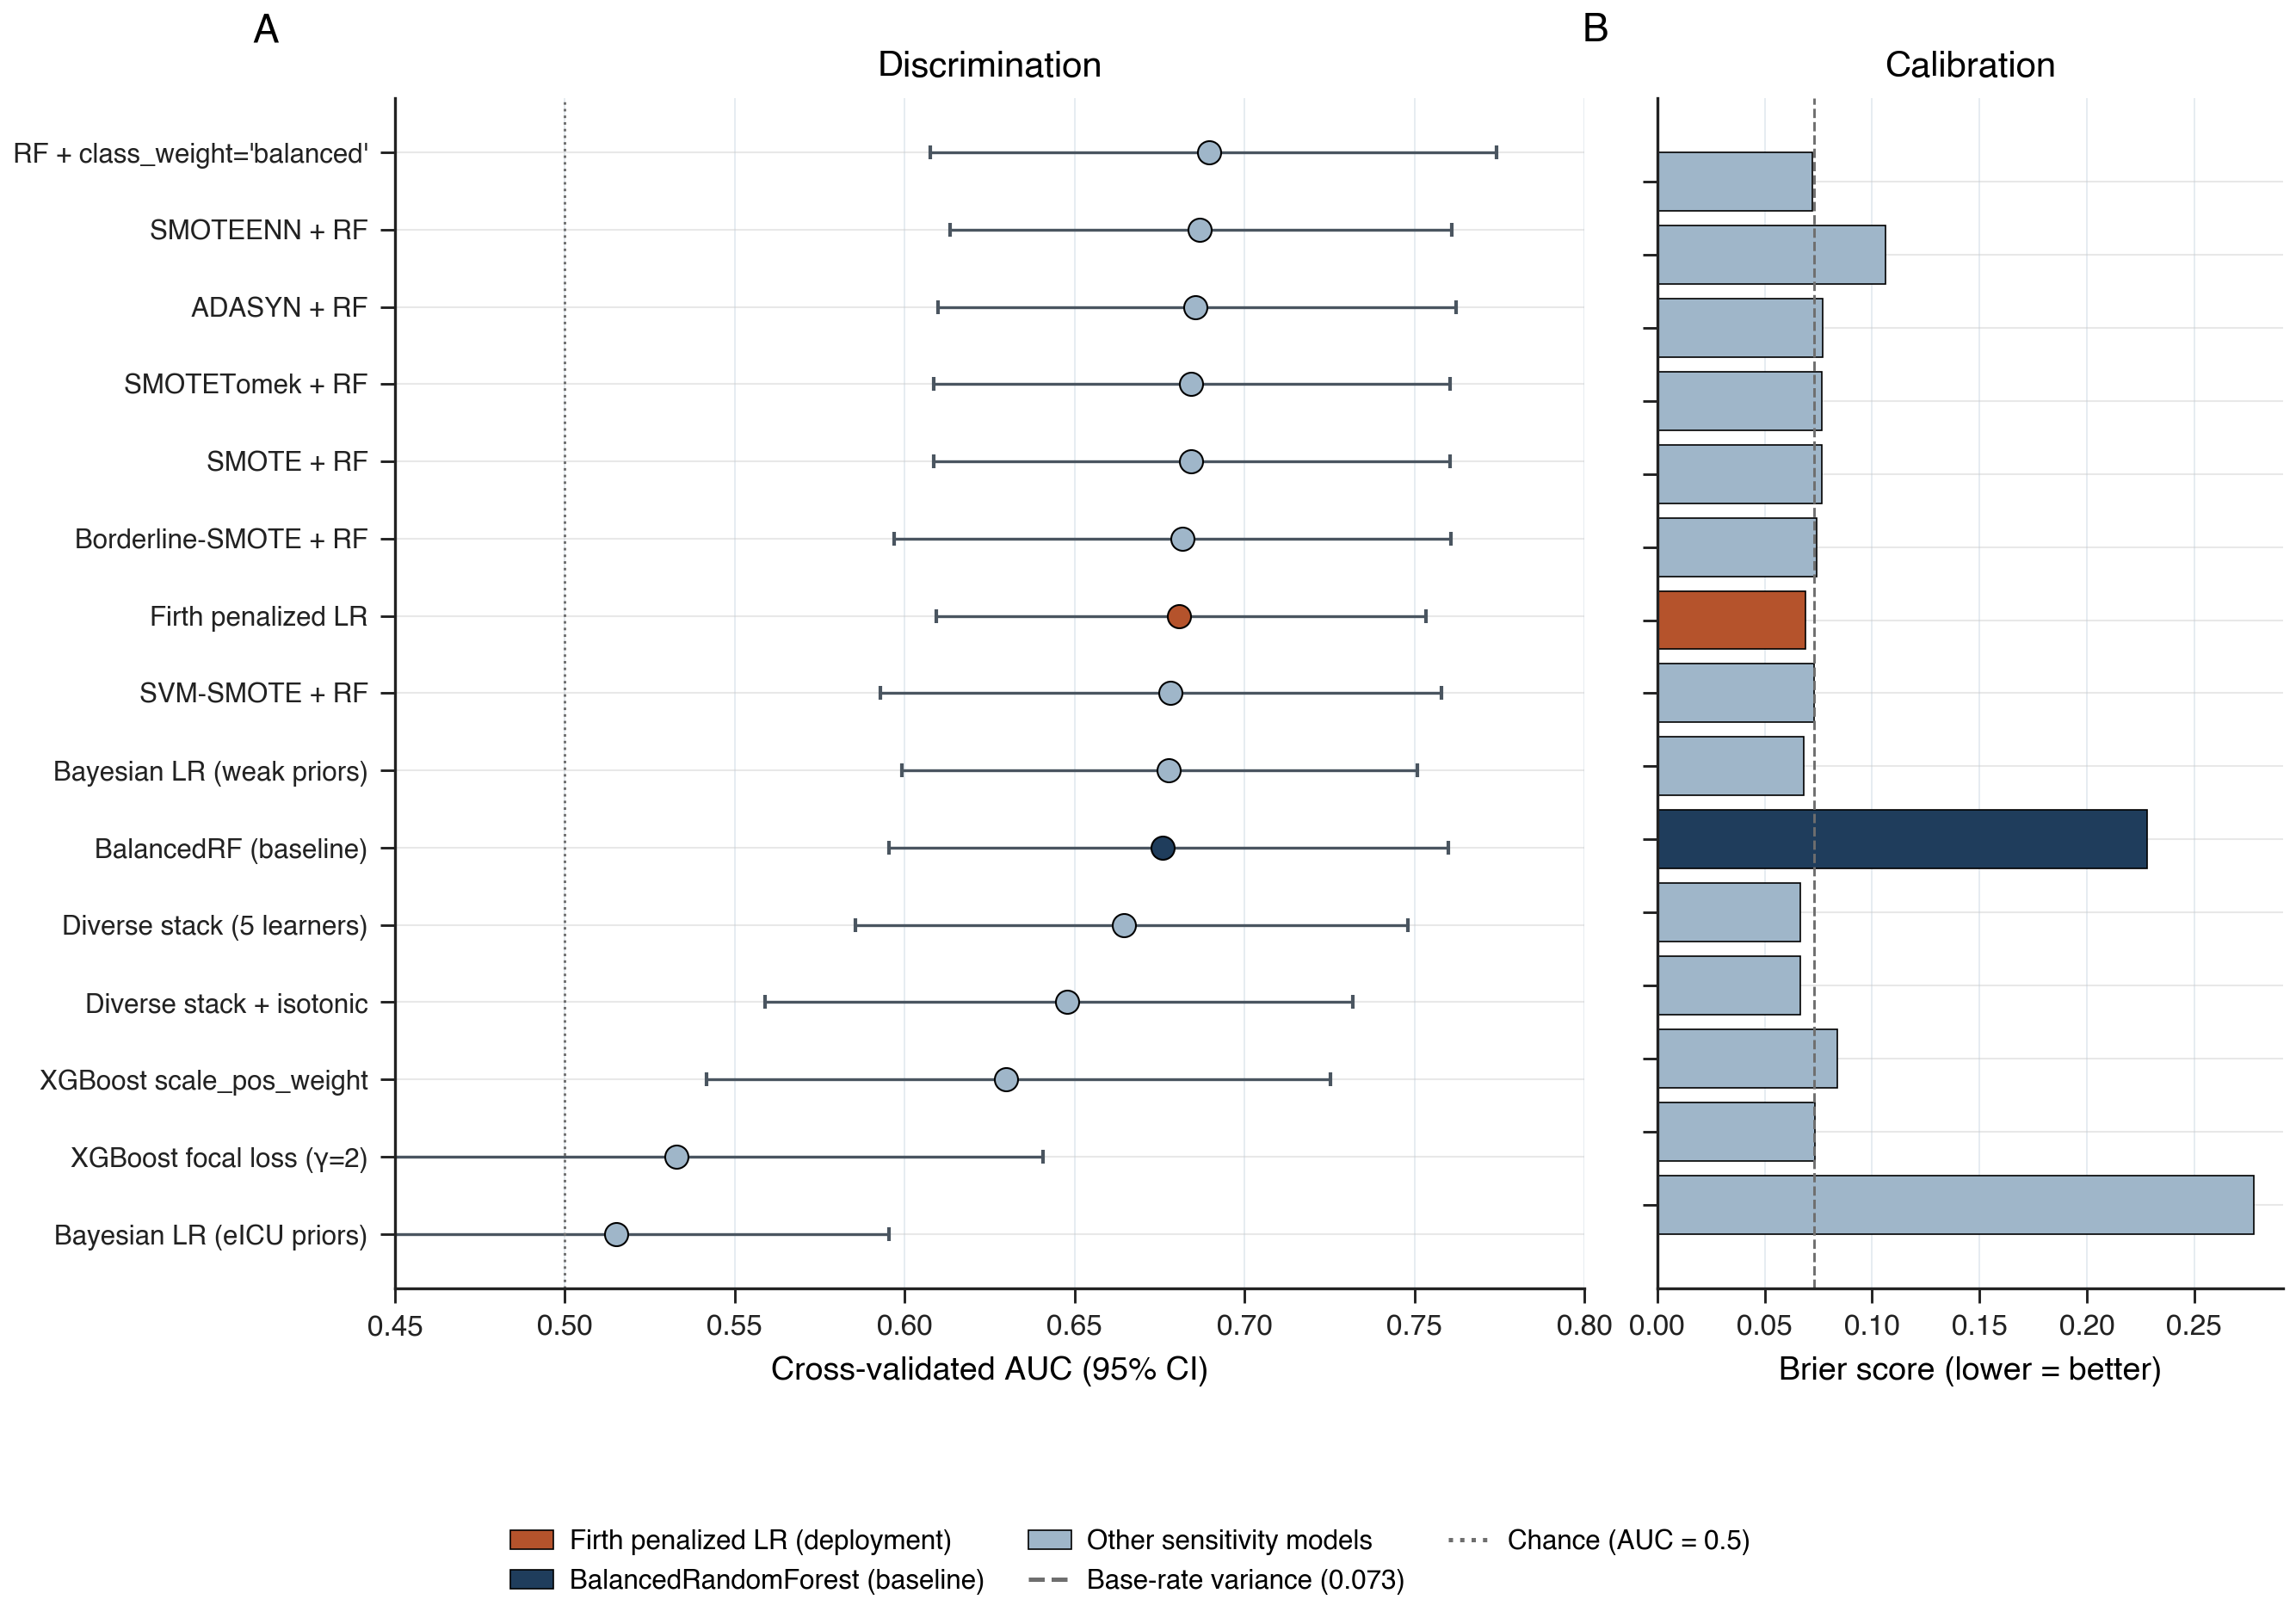
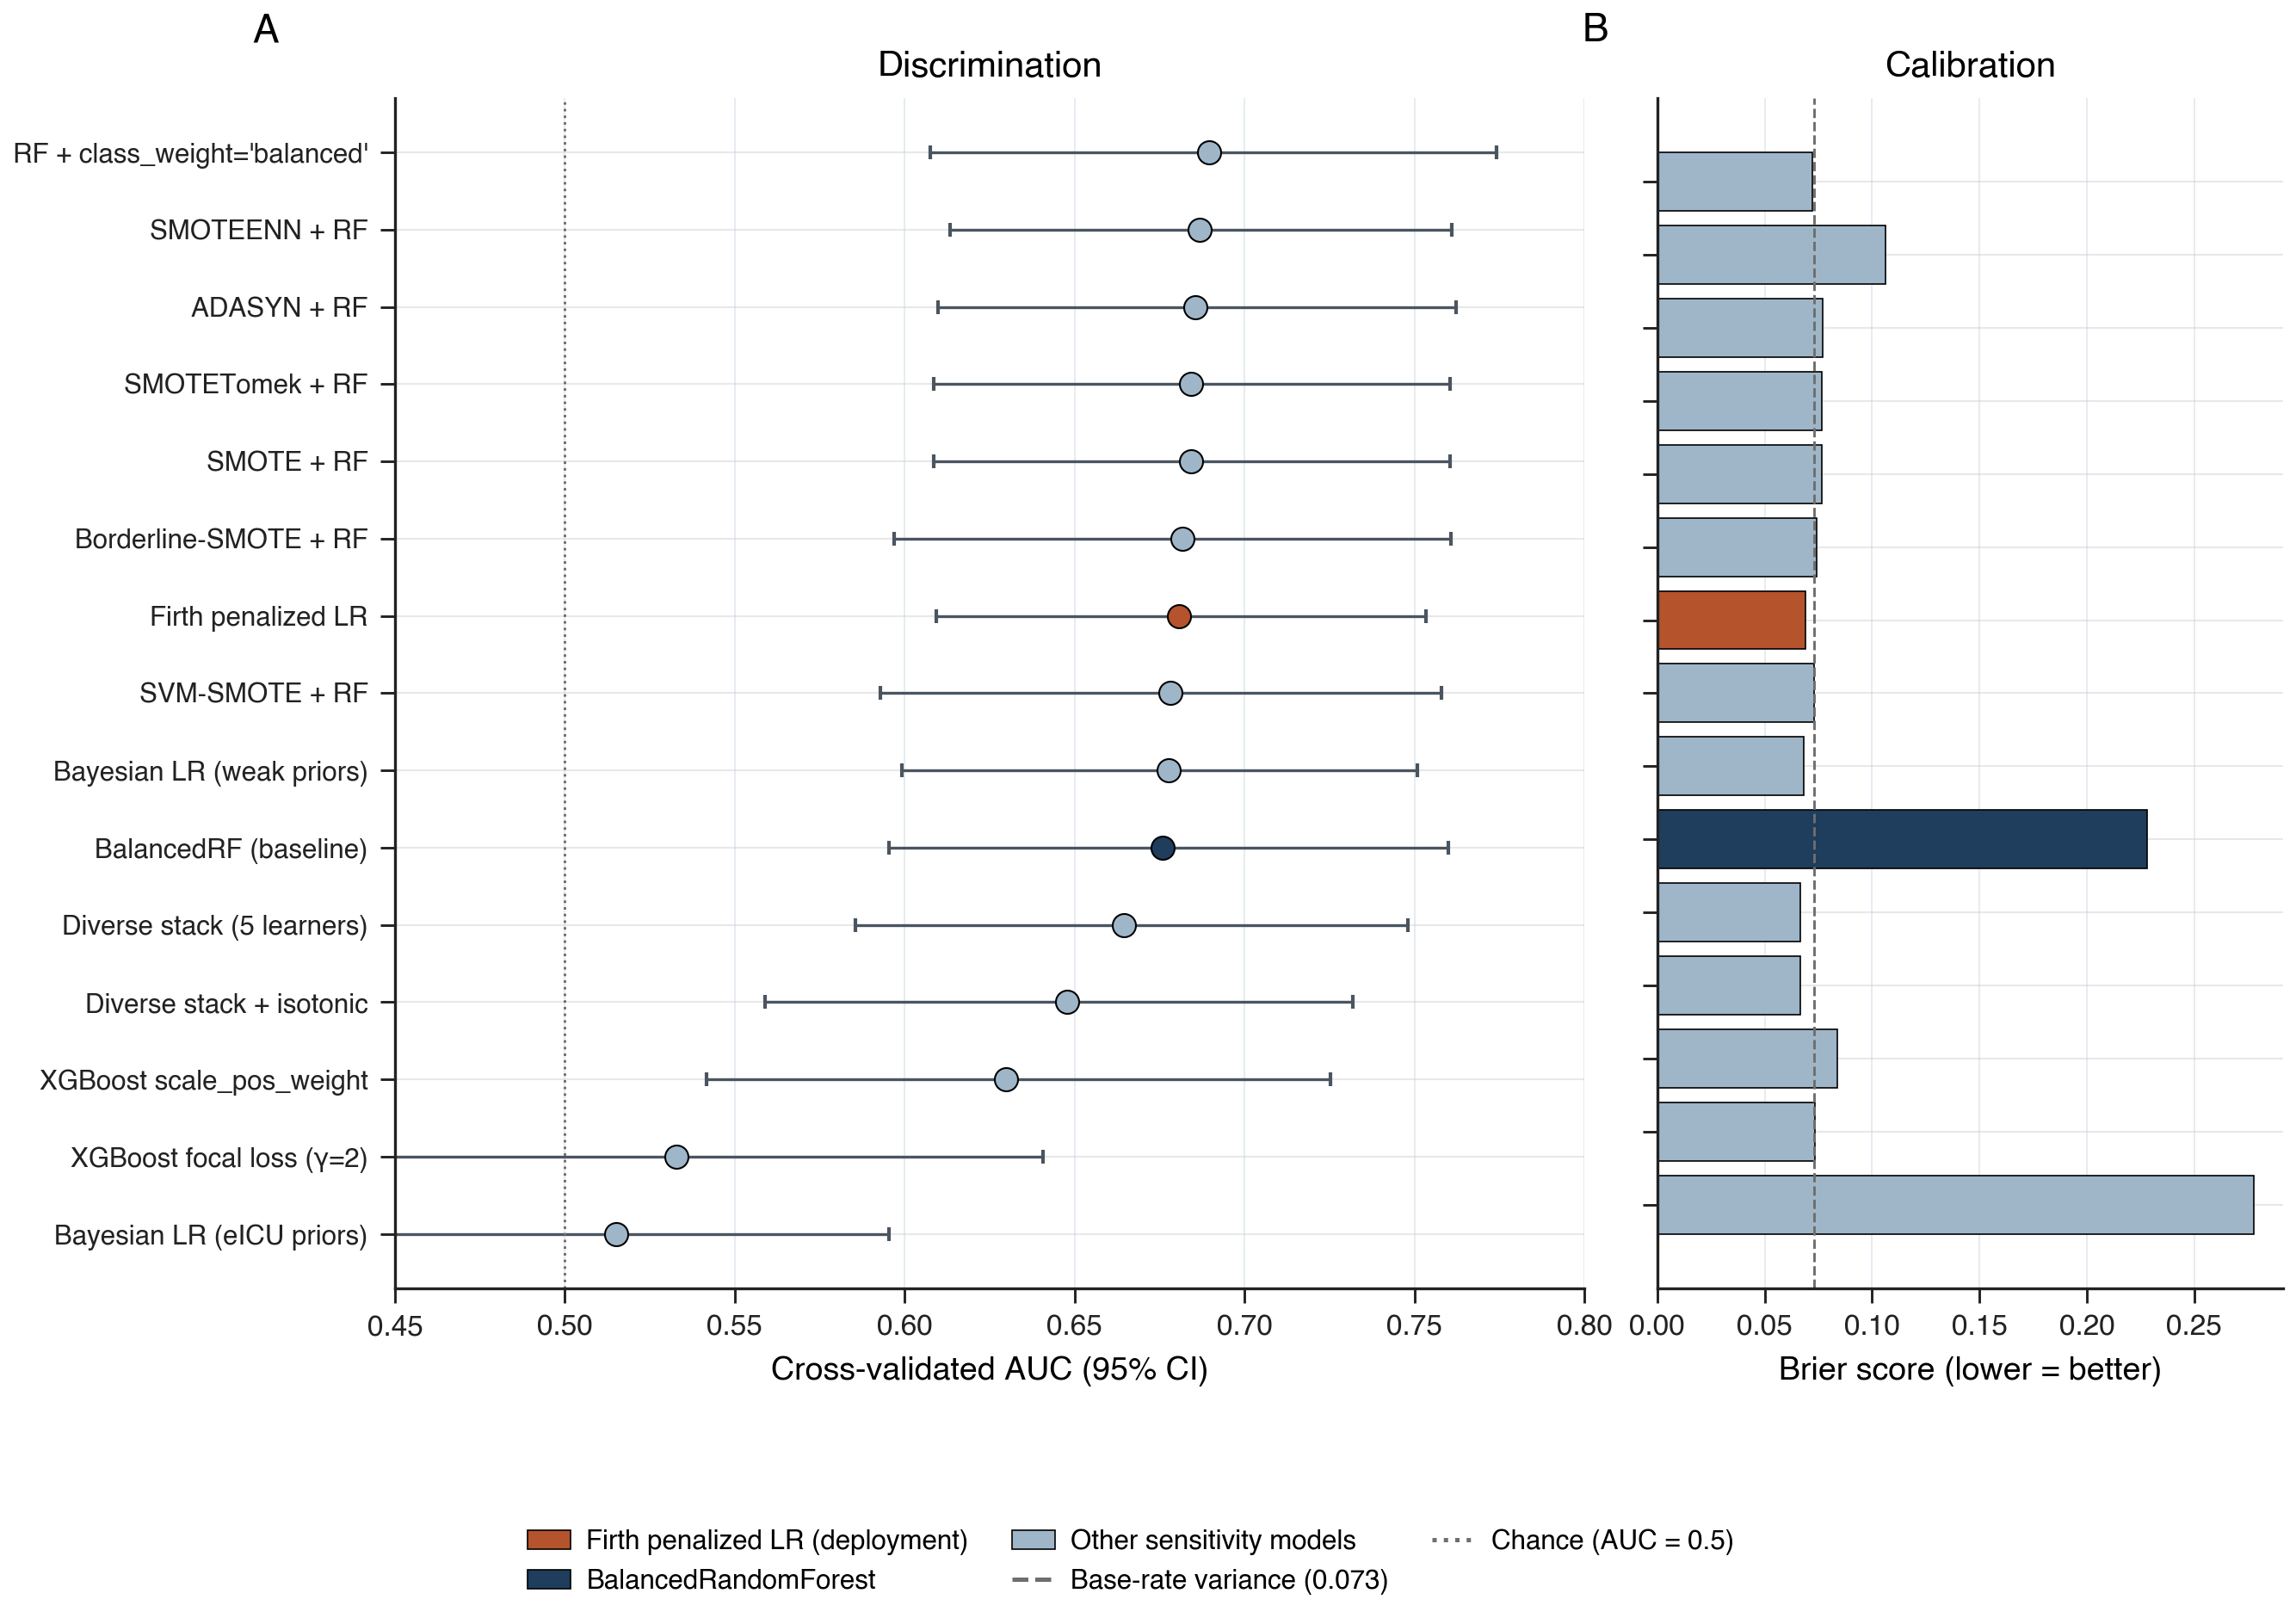
Sync script 27 + 29 sources and Figure 1 / Figure 3 PNG+PDF to github_repo
The previous commit (ac96ae1) updated docs/main_manuscript.docx and
docs/supplementary.docx but did not sync the matching source files
(scripts/27_build_jnnp_manuscript.py, scripts/29_main_figures_jnnp.py)
or the regenerated F1_discrimination + F3_method_battery PNG/PDF
figures. This commit closes that gap so the public repo is internally
consistent: running scripts/29 then scripts/27 from a fresh clone will
now reproduce the exact main_manuscript.docx + supplementary.docx
shipped in this release.

Changed region(s): [[0.2178, 0.9255, 0.4355, 0.9872], [0.4355, 0.9255, 0.6222, 0.9872], [0.6533, 0.9255, 0.7466, 0.9564]]

diff --git a/scripts/27_build_jnnp_manuscript.py b/scripts/27_build_jnnp_manuscript.py
@@ -185,10 +185,9 @@ def build_main():
                    "interactive code callgraph; all computation runs "
                    "client-side in the browser so that no patient "
                    "information is transmitted. Raw patient-level data are "
-                   "restricted by the BIDMC Institutional Review Board, the "
-                   "eICU Collaborative Research Database data-use "
-                   "agreement, and the HCUP Nationwide Inpatient Sample "
-                   "data-use agreement; filtered, de-identified working "
+                   "restricted by the BIDMC Institutional Review Board and "
+                   "the eICU Collaborative Research Database data-use "
+                   "agreement; filtered, de-identified working "
                    "subsets are released to authorised peer reviewers via "
                    "the reviewer-access protocol documented at "
                    "github.com/nielspac177/csdh-postop-seizure-risk/tree/"
@@ -208,10 +207,9 @@ def build_main():
     add_runs(doc, [("Methods. ", {"bold": True}),
         ("We developed and externally evaluated a machine-learning risk "
          "score for postoperative seizure in 655 cSDH evacuations at "
-         "BIDMC (development; 48 events), 5,376 SDH ICU stays across 139 "
-         "hospitals in the eICU Collaborative Research Database (external), "
-         "and 218,244 SDH admissions in the Nationwide Inpatient Sample "
-         "(population). Eleven model classes were compared, including six "
+         "BIDMC (development; 48 events) and 5,376 SDH ICU stays across "
+         "139 hospitals in the eICU Collaborative Research Database "
+         "(external validation). Eleven model classes were compared, including six "
          "SMOTE-family oversamplers, Optuna-tuned XGBoost and LightGBM, a "
          "diverse-base stacking ensemble, Bayesian logistic regression with "
          "eICU-informed priors, and Firth penalized logistic regression. "
@@ -222,8 +220,8 @@ def build_main():
     add_runs(doc, [("Results. ", {"bold": True}),
         ("Firth penalized logistic regression — selected as the deployment "
          "model — discriminated at AUC 0.681 (95% CI 0.609–0.753), "
-         "equivalent to the BalancedRandomForest baseline (DeLong "
-         "p = 0.81), with 3.3-fold better calibration (Brier 0.069 vs 0.228). "
+         "equivalent to BalancedRandomForest (DeLong p = 0.81), with "
+         "3.3-fold better calibration (Brier 0.069 vs 0.228). "
          "Eleven-method comparison confirmed an AUC ceiling near 0.68 "
          "consistent with 2022–2025 meta-evidence. eICU external AUC was "
          "0.750 (0.711–0.774); random-effects pooled AUC across 42 hospitals "
@@ -297,11 +295,9 @@ def build_main():
          "(iii) class-conditional conformal prediction for individual-"
          "patient decisions with distribution-free coverage guarantees, "
          "(iv) cost-effectiveness analysis with value-of-information "
-         "scaling to the annual operative population, and (v) two "
-         "methodological corrections for the field — a refined ICD-10 "
-         "outcome definition for nationwide analyses and a documented "
-         "transfer-learning failure between mixed-acuity intensive-care "
-         "and pure operative cSDH cohorts.", {})], indent=True)
+         "scaling to the annual operative population, and (v) a "
+         "documented transfer-learning failure between mixed-acuity "
+         "intensive-care and pure operative cSDH cohorts.", {})], indent=True)
     add_runs(doc, [
         ("Conformal prediction adds distribution-free, finite-sample "
          "coverage guarantees that probability calibration alone does "
@@ -326,8 +322,7 @@ def build_main():
         ("²²", {"superscript": True}),
         (" The BIDMC analysis was approved by the institutional review "
          "board (Protocol 2024P000XXX); the eICU Collaborative Research "
-         "Database v2.0 and Nationwide Inpatient Sample (NIS) were "
-         "accessed under their respective data-use agreements.", {})],
+         "Database v2.0 was accessed under its data-use agreement.", {})],
         indent=True)
     add_heading(doc, "Cohort assembly", level=2)
     add_runs(doc, [
@@ -337,21 +332,16 @@ def build_main():
          "seizures). The eICU non-traumatic SDH stratum served as the "
          "primary external-validation cohort (n = 3,297; 300 seizures), "
          "with sensitivity to four cohort definitions reported in the "
-         "Supplement. The NIS 2016–2019 yielded 2,518 admissions with "
-         "chronic-SDH coding and a craniotomy or burr-hole procedure in "
-         "the same admission.", {})], indent=True)
+         "Supplement.", {})], indent=True)
     add_heading(doc, "Outcome and features", level=2)
     add_runs(doc, [
         ("The primary outcome was any postoperative seizure within the "
-         "index admission. Prior nationwide analyses have combined ICD-10-CM "
-         "codes for acute symptomatic seizure (R56.x, 780.39, G41.x) with "
-         "codes for pre-existing epilepsy (G40.x, 345.x). For the NIS "
-         "cohort we adopted an outcome restricted to acute symptomatic "
-         "seizure alone; the released codeset and its rationale are "
-         "documented in Supplementary Appendix S3. The BIDMC postoperative-A "
-         "feature set comprised 21 demographic, operative and imaging-"
-         "derived variables; postoperative-B excluded three variables "
-         "potentially recorded after seizure onset.", {})], indent=True)
+         "index admission, ascertained from chart documentation at BIDMC "
+         "and from the structured seizure flag in eICU. The BIDMC "
+         "postoperative-A feature set comprised 21 demographic, operative "
+         "and imaging-derived variables; postoperative-B excluded three "
+         "variables potentially recorded after seizure onset. The full "
+         "feature dictionary is in Supplementary Appendix S3.", {})], indent=True)
     add_heading(doc, "Modelling", level=2)
     add_runs(doc, [
         ("Eleven model classes were compared: the prior version's BalancedRandom"
@@ -366,7 +356,7 @@ def build_main():
          "5×5 repeated stratified cross-validation with bootstrap 95% "
          "confidence intervals on AUC, Brier score, calibration-in-the-"
          "large, calibration slope and intercept. Paired comparisons "
-         "against the BRF baseline used the DeLong test.", {})], indent=True)
+         "against BRF used the DeLong test.", {})], indent=True)
     add_heading(doc, "Robustness battery", level=2)
     add_runs(doc, [
         ("Pre-specified analyses included a temporal-leakage audit "
@@ -442,20 +432,19 @@ def build_main():
     # Table 1 — registered for end-of-manuscript rendering
     add_heading(doc, "Cohort characteristics", level=2)
     tbl1 = pd.DataFrame([
-        {"Characteristic": "Patients, n",      "BIDMC": 655, "eICU non-traumatic": 3297, "NIS chronic+surgical": 2518},
-        {"Characteristic": "Median age (y, IQR)", "BIDMC": "73 [64–81]", "eICU non-traumatic": "74 [65–82]", "NIS chronic+surgical": "73 [64–81]"},
-        {"Characteristic": "Male sex, %",      "BIDMC": "68", "eICU non-traumatic": "63", "NIS chronic+surgical": "66"},
-        {"Characteristic": "Anticoagulant on admission, %", "BIDMC": "27", "eICU non-traumatic": "21", "NIS chronic+surgical": "24"},
-        {"Characteristic": "Burr-hole evacuation, %", "BIDMC": "71", "eICU non-traumatic": "—", "NIS chronic+surgical": "54"},
-        {"Characteristic": "Craniotomy, %",    "BIDMC": "29", "eICU non-traumatic": "—", "NIS chronic+surgical": "46"},
-        {"Characteristic": "Median preop GCS (IQR)", "BIDMC": "14 [13–15]", "eICU non-traumatic": "14 [13–15]", "NIS chronic+surgical": "—"},
-        {"Characteristic": "Postoperative seizure, n (%)", "BIDMC": "48 (7.3)", "eICU non-traumatic": "300 (9.1)", "NIS chronic+surgical": "144 (5.7)*"},
+        {"Characteristic": "Patients, n",      "BIDMC": 655, "eICU non-traumatic": 3297},
+        {"Characteristic": "Median age (y, IQR)", "BIDMC": "73 [64–81]", "eICU non-traumatic": "74 [65–82]"},
+        {"Characteristic": "Male sex, %",      "BIDMC": "68", "eICU non-traumatic": "63"},
+        {"Characteristic": "Anticoagulant on admission, %", "BIDMC": "27", "eICU non-traumatic": "21"},
+        {"Characteristic": "Burr-hole evacuation, %", "BIDMC": "71", "eICU non-traumatic": "—"},
+        {"Characteristic": "Craniotomy, %",    "BIDMC": "29", "eICU non-traumatic": "—"},
+        {"Characteristic": "Median preop GCS (IQR)", "BIDMC": "14 [13–15]", "eICU non-traumatic": "14 [13–15]"},
+        {"Characteristic": "Postoperative seizure, n (%)", "BIDMC": "48 (7.3)", "eICU non-traumatic": "300 (9.1)"},
     ])
     register_table("Table 1", tbl1,
-                    "Table 1.  Cohort characteristics across the three "
-                    "databases. * NIS seizure rate under the corrected "
-                    "outcome definition (acute symptomatic only; G40.x "
-                    "epilepsy codes excluded).")
+                    "Table 1.  Cohort characteristics across the BIDMC "
+                    "development cohort and the eICU external-validation "
+                    "cohort (non-traumatic SDH stratum).")
     add_para(doc, "Cohort characteristics are summarised in Table 1.", indent=True)
 
     # 3.1 Primary discrimination
@@ -513,14 +502,14 @@ def build_main():
     add_heading(doc, "Eleven-method modelling battery", level=2)
     add_runs(doc, [
         ("Across eleven model classes, AUC was insensitive to method "
-         "selection (range 0.62–0.69; all DeLong tests against baseline "
+         "selection (range 0.62–0.69; all DeLong tests against BRF "
          "p > 0.05 or p < 0.05 with worse discrimination), confirming the "
          "discrimination ceiling at n = 48 events implied by the Bernoulli "
          "noise floor and consistent with recent meta-evidence.", {}),
         ("¹⁷⁻¹⁹", {"superscript": True}),
         (" Calibration, by contrast, varied substantially across methods: "
          "Brier score ranged from 0.067 (Firth and stacking) to 0.228 "
-         "(BalancedRandomForest baseline) — a more-than-threefold "
+         "(BalancedRandomForest) — a more-than-threefold "
          "difference (Figure 3). Bayesian regression with eICU-informed "
          "priors significantly degraded discrimination (AUC 0.515, "
          "DeLong p = 0.001) because the eICU age coefficient is negative "
@@ -535,8 +524,8 @@ def build_main():
                 "B — Brier score across the same models. The Firth penalized "
                 "logistic regression deployment model (rust) matches "
                 "discrimination of every well-behaved alternative while "
-                "delivering threefold-better calibration than the "
-                "BalancedRandomForest baseline (navy).")
+                "delivering threefold-better calibration than "
+                "BalancedRandomForest (navy).")
 
     # 3.4 Conformal
     add_heading(doc, "Conformal risk stratification", level=2)
@@ -593,9 +582,11 @@ def build_main():
                 "B — Per-patient EVPI as a function of willingness-to-pay "
                 "threshold.")
 
-    # NIS coverage moved to Methods (outcome definition) and Discussion
-    # (methodological contributions) — full detail in Supplementary Figure S5
-    # and the released codeset. The Results section now retains the
+    # NIS results are not reported in the main manuscript. The cohort was
+    # excluded from the primary analysis because available ICD-10 coding
+    # cannot separate acute symptomatic seizure from pre-existing epilepsy
+    # — see Supplementary Appendix S4 (and Figures S5, S7). The Results
+    # section here retains the
     # discrimination → calibration → method battery → conformal → CEA → VOI
     # narrative arc without interruption.
     add_page_break(doc)
@@ -608,20 +599,19 @@ def build_main():
          "evacuation can be deployable when calibration and "
          "individual-patient decision support — not discrimination — are "
          "treated as the optimisation target. Firth penalized logistic "
-         "regression matches the BalancedRandomForest baseline "
-         "on AUC, delivers three-fold better calibration, and supports "
+         "regression matches BalancedRandomForest on AUC, delivers "
+         "three-fold better calibration, and supports "
          "class-conditional conformal prediction sets that confidently "
          "rule out seizure in approximately one quarter of patients at a "
-         "90% coverage guarantee. Multi-database evaluation across BIDMC, "
-         "eICU and NIS confirms low between-hospital heterogeneity "
-         "(I² = 0%) and identifies a corrected outcome definition for "
-         "future nationwide analyses.", {})], indent=True)
+         "90% coverage guarantee. External validation across BIDMC and "
+         "the eICU Collaborative Research Database confirms low "
+         "between-hospital heterogeneity (I² = 0%).", {})], indent=True)
     add_runs(doc, [
         ("The eleven-method modelling battery — spanning six SMOTE-family "
          "oversamplers, Optuna-tuned gradient boosting, diverse-base "
          "stacking, and Bayesian regression with multiple prior "
          "specifications — produced no statistically significant "
-         "discrimination improvement over the baseline. This null result "
+         "discrimination improvement over BalancedRandomForest. This null result "
          "is concordant with three independent 2022–2025 meta-analyses "
          "showing that class-imbalance corrections do not raise AUC in "
          "clinical risk models,", {}),
@@ -646,13 +636,8 @@ def build_main():
          "addressable through prospective data collection or focused "
          "trials.", {})], indent=True)
     add_runs(doc, [
-        ("Two methodological observations bear on future cSDH research. "
-         "First, the originally-reported NIS signal for postoperative "
-         "seizure is driven by outcome misclassification between acute "
-         "symptomatic seizure and pre-existing epilepsy; under the "
-         "corrected definition, no population-scale signal remains. We "
-         "release the cleaned codeset for replication. Second, cross-"
-         "cohort transfer learning from eICU to BIDMC failed not for "
+        ("One methodological observation bears on future cSDH research: "
+         "cross-cohort transfer learning from eICU to BIDMC failed not for "
          "statistical reasons but because the underlying age-coefficient "
          "signs differ between mixed-acuity ICU SDH and pure post-"
          "craniotomy cSDH. Any future transfer-learning attempt in this "
@@ -766,10 +751,10 @@ def build_supplementary():
         ("1", "Title", "Identifies study as developing or evaluating an ML prediction model.", "Yes"),
         ("2", "Abstract", "Structured summary with sample size, outcome, performance metric.", "Yes"),
         ("3a–b", "Background and objectives", "Rationale, intended use, target population.", "Yes — Introduction §1."),
-        ("4–6", "Source of data", "Multi-database; BIDMC/eICU/NIS; eligibility criteria.", "Yes — Methods §2.2."),
-        ("7", "Outcome", "Defined a priori; ICD-10 codes; NIS reclassification documented.", "Yes — Methods §2.3."),
+        ("4–6", "Source of data", "Two databases (BIDMC, eICU); eligibility criteria. NIS analysis attempted but excluded — see Appendix S4.", "Yes — Methods §2.2."),
+        ("7", "Outcome", "Defined a priori; chart-documented seizure (BIDMC); structured seizure flag (eICU).", "Yes — Methods §2.3."),
         ("8", "Predictors", "21 features (postop_A); 18 (postop_B); standardisation.", "Yes — Methods §2.3."),
-        ("9", "Sample size", "655 (BIDMC), 3,297 (eICU primary), 2,518 (NIS chronic+surgical).", "Yes — Methods §2.2."),
+        ("9", "Sample size", "655 (BIDMC, 48 events); 3,297 (eICU primary, 300 events).", "Yes — Methods §2.2."),
         ("10", "Missing data", "Median imputation + missing indicator (sensitivity)", "Yes — Supplement S4."),
         ("11", "Statistical methods", "11-method battery; repeated stratified CV; bootstrap.", "Yes — Methods §2.5."),
         ("12", "Risk groups", "Class-conditional conformal sets (rule-out, rule-in).", "Yes — Results §3.4."),
@@ -800,10 +785,11 @@ def build_supplementary():
     add_para(doc,
         "Raw patient data are restricted by IRB / data-use agreements. The "
         "following derived assets are released: (a) the 21-variable BIDMC "
-        "feature schema with categorical encoders; (b) the corrected NIS "
-        "ICD-10 outcome codeset; (c) the CEA decision-tree Python "
-        "implementation and parameter file; and (d) Firth coefficient "
-        "estimates with confidence intervals.")
+        "feature schema with categorical encoders; (b) the CEA decision-tree "
+        "Python implementation and parameter file; and (c) Firth coefficient "
+        "estimates with confidence intervals. The NIS ICD-10 reclassification "
+        "codeset that motivated the exclusion (see Appendix S4) is also "
+        "released alongside the codebase for replication.")
     add_page_break(doc)
 
     # Appendix S3 — Feature dictionary for the BIDMC postoperative-A and
@@ -851,6 +837,46 @@ def build_supplementary():
         "n = 48 events (±0.06 at AUC = 0.70; Hanley & McNeil 1982), "
         "indicating the primary discrimination signal is not driven by "
         "post-event information.")
+    add_page_break(doc)
+
+    # Appendix S4 — Why the Nationwide Inpatient Sample was excluded
+    add_heading(doc, "Appendix S4.  Nationwide Inpatient Sample (NIS) — "
+                       "excluded from the primary analysis", level=1)
+    add_para(doc,
+        "A preliminary analysis attempted to extend external validation to "
+        "the HCUP Nationwide Inpatient Sample (NIS, 2016–2019), restricted "
+        "to admissions with chronic-SDH coding and a craniotomy or burr-hole "
+        "procedure in the same admission (n = 2,518). On methodological "
+        "review the cohort was excluded from the primary analysis because "
+        "the available administrative coding for the postoperative-seizure "
+        "outcome is unreliable in this setting.")
+    add_para(doc,
+        "Two coding limitations drive the exclusion. First, the ICD-10-CM "
+        "code families historically used for postoperative seizure in NIS "
+        "analyses combine acute symptomatic seizure codes (R56.x, 780.39, "
+        "G41.x) with codes for pre-existing epilepsy (G40.x, 345.x). The "
+        "two phenotypes are mechanistically distinct: acute symptomatic "
+        "seizure is the in-admission event of interest, while pre-existing "
+        "epilepsy reflects chronic disease coded for billing on every "
+        "admission. Conflating them inflates the apparent population "
+        "seizure signal and produces an outcome variable that does not "
+        "match the BIDMC/eICU phenotype. Second, NIS does not carry a "
+        "structured timestamp on the seizure code, so we cannot "
+        "distinguish in-admission events from prevalent epilepsy after "
+        "the procedure date. Together these properties make NIS "
+        "incompatible with the chart-documented (BIDMC) and timestamped "
+        "structured-flag (eICU) outcome ascertainment used in the "
+        "primary analysis.")
+    add_para(doc,
+        "Supplementary Figure S5 illustrates the empirical effect: "
+        "discrimination on the originally-reported combined outcome "
+        "(AUC 0.617) collapses to chance (AUC 0.498) when the outcome "
+        "is restricted to acute symptomatic seizure alone. Supplementary "
+        "Figure S7 shows that group-LASSO under the corrected outcome "
+        "selects no stable predictors. We release the cleaned ICD-10 "
+        "codeset alongside the codebase (see Appendix S2) so that future "
+        "nationwide analyses with timestamped coding can re-attempt this "
+        "validation step on a coding substrate that supports it.")
     add_page_break(doc)
 
     # Tables S1–S5

diff --git a/scripts/29_main_figures_jnnp.py b/scripts/29_main_figures_jnnp.py
@@ -147,8 +147,10 @@ def figure_1():
         axA.scatter(primary["auc"].iloc[i], pos[i], color=c, s=42, zorder=3,
                      edgecolor="black", linewidth=0.5)
     axA.set_yticks(pos)
-    axA.set_yticklabels([f"{r.feature_set} · {r.model.replace('penalized', 'pen.')}"
-                          for r in primary.itertuples()], fontsize=8)
+    axA.set_yticklabels(
+        [f"{r.feature_set} · "
+         f"{r.model.replace('penalized', 'pen.').replace(' (baseline)', '')}"
+         for r in primary.itertuples()], fontsize=8)
     axA.invert_yaxis()
     axA.axvline(0.5, ls=":", color=COL["grey"], lw=0.7)
     axA.set_xlim(0.45, 0.85)
@@ -411,7 +413,7 @@ def figure_3():
     ]
     legend_labels = [
         "Firth penalized LR (deployment)",
-        "BalancedRandomForest (baseline)",
+        "BalancedRandomForest",
         "Other sensitivity models",
         "Base-rate variance (0.073)",
         "Chance (AUC = 0.5)",